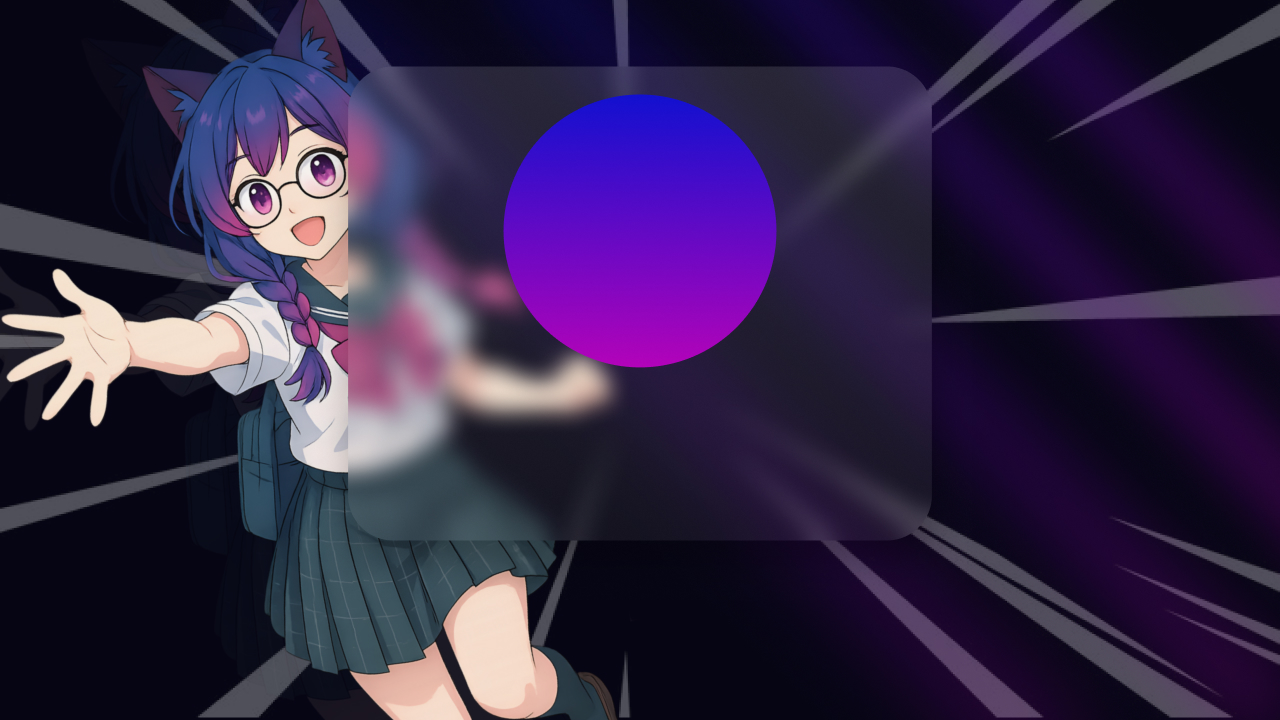
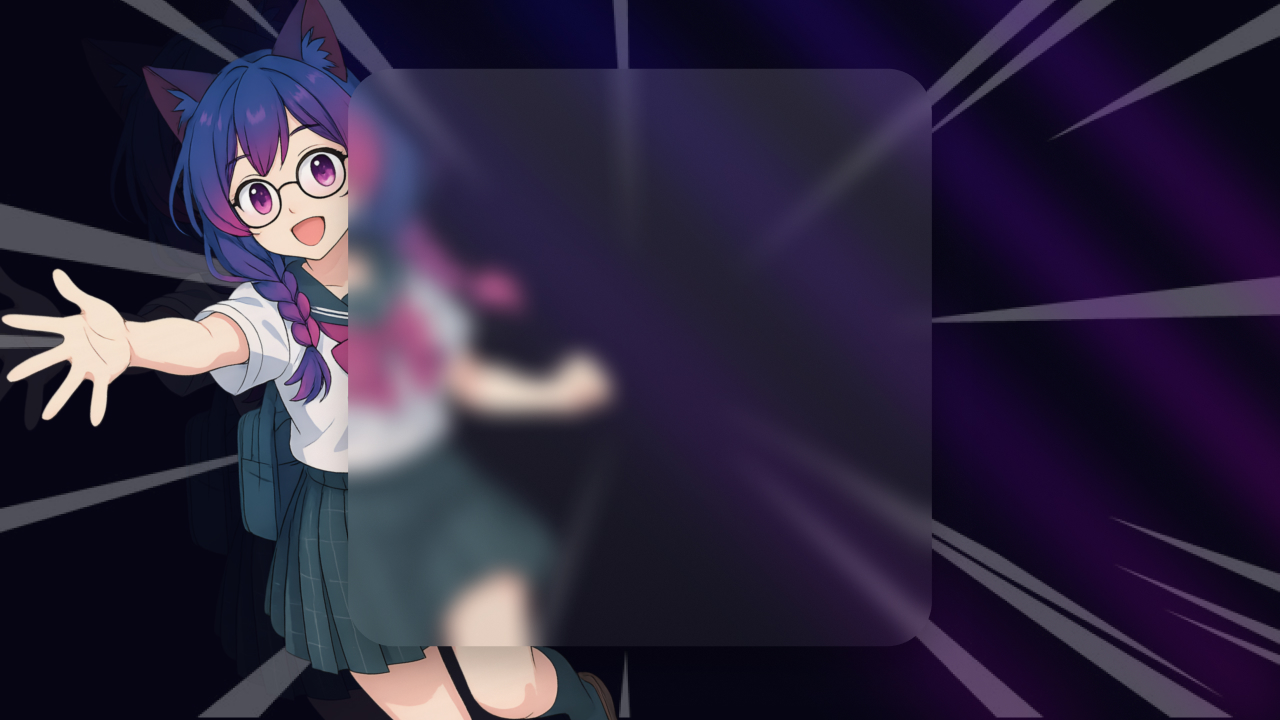
welcome

Changed region(s): [[0.375, 0.1222, 0.625, 0.5194], [0.2812, 0.7333, 0.4688, 0.9472], [0.625, 0.7333, 0.75, 0.8861]]

diff --git a/handler.js b/handler.js
@@ -536,9 +536,10 @@ export async function participantsUpdate({ id, participants, action }) {
                         text = (action === 'add' ?
                             (chat.sWelcome || this.welcome || conn.welcome || 'Bem vindo, @user!').replace('@subject', await this.getName(id)).replace('@desc', groupMetadata.desc?.toString() || 'unknown') :
                             (chat.sBye || this.bye || conn.bye || 'Adeus, @user!')).replace('@user', `@` + user.split('@')[0])
+                        let Username = getName(user).slice(0, 10)
                         let card_welcome = new Card()
                             .setTitle("Bem-Vindo")
-                            .setName((await this.getName(user)).slice(0, 10))
+                            .setName(Username)
                             .setAvatar(pp)
                             .setMessage("Entrou no Grupo!")
                             .setBackground('./src/Welcome.jpg')
@@ -546,10 +547,10 @@ export async function participantsUpdate({ id, participants, action }) {
                         let wel = await card_welcome.build();
                            
                         let card_leave = new Card()
-                            .setTitle("Adeus")
-                            .setName((await this.getName(user)).slice(0, 10))
+                            .setTitle("Saiu do Grupo!")
+                            .setName(Username)
                             .setAvatar(pp)
-                            .setMessage("Saiu do Grupo!")
+                            .setMessage(" ")
                             .setBackground('./src/Welcome.jpg')
                             .setColor("1210D0"); // without #
                         let lea = await card_leave.build();
